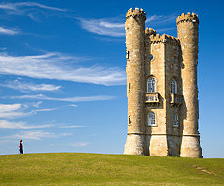
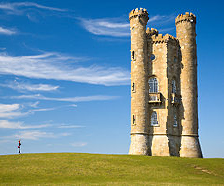
adaugare pas 3: amplificarea continutul imaginilor

diff --git a/lab4&5/cod/resize_image.py b/lab4&5/cod/resize_image.py
@@ -135,10 +135,35 @@ def decrease_height(params: Parameters, num_pixels):
     cv.destroyAllWindows()
     return img
 
+def amplify_conetnt(params: Parameters, factor):
+    # amplific continutul pastrand dimnesiunea initiala
+    # am 2 pasi
+    # 1. maresc imaginea cu un factor, prin redimensionarea obisnuita
+    # 2. tai drumurile pana revin exact la dimnesiunea originala
+    # obiectele importante din imagine raman marite pentru ca drumurile sterse trec prin zonele de energie mica, nu prin ele
+    if factor is None:
+        factor = params.factor_amplification
 
-def delete_object(params: Parameters, x0, y0, w, h):
-    #TODO: scrieti codul
-    return None
+    h, w, c = params.image.shape
+
+    # pas 1: scalarea uzuala cu factorul cerut
+    imagine_marita = cv.resize(params.image, None, fx=factor, fy=factor)
+    h_nou, w_nou = imagine_marita.shape[:2]
+
+    # pas 2: tai surplusul, mai intai pe latime si dupa pe inaltime
+    params_local = copy.copy(params)
+    params_local.image = imagine_marita
+
+    img = imagine_marita
+    img, _ = _decrease_width_img(img, w_nou - w, params_local)
+
+    img_transpus = np.transpose(img, (1, 0, 2)).copy()
+    img_transpus, _ = _decrease_width_img(img_transpus, h_nou - h, params_local)
+    img = np.transpose(img_transpus, (1, 0, 2)).copy()
+
+    cv.destroyAllWindows()
+
+    return img
 
 def resize_image(params: Parameters):
 
@@ -152,8 +177,8 @@ def resize_image(params: Parameters):
         return resized_image
     
     elif params.resize_option == 'amplificaContinut':
-        #TODO: scrieti codul
-        return None
+        resized_image = amplify_conetnt(params, params.factor_amplification)
+        return resized_image
 
     elif params.resize_option == 'eliminaObiect':
         #TODO: scrieti codul

diff --git a/lab4&5/cod/run_project.py b/lab4&5/cod/run_project.py
@@ -30,6 +30,9 @@ params.show_path = True
 # aleator, greedy, programareDinamica
 params.method_select_path = 'aleator'
 
+# factorul de amplificare al continutului
+params.factor_amplification = 1.2
+
 resized_image = resize_image(params)
 resized_image_opencv = cv.resize(params.image, (resized_image.shape[1], resized_image.shape[0]))
 
@@ -90,5 +93,14 @@ def rulez_pasi(director_date='../data/', director_iesire='./rezultate/'):
         p.resize_option = 'micsoreazaInaltime'
         p.num_pixel_height = n
         salvez('praga_inaltime_%d.png' % n, resize_image(p))
+
+    # PASUL 3!!!! --->> amplificarea continutului cu mai multi factori
+    for f in [1.05, 1.1, 1.2, 1.3]:
+        p = Parameters(os.path.join(director_date, 'arcTriumf.jpg'))
+        p.show_path = False
+        p.method_select_path = 'programareDinamica'
+        p.resize_option = 'amplificaContinut'
+        p.factor_amplification = f
+        salvez('arcTriumf_amplificat_%.2f.png' % f, resize_image(p))
 
 rulez_pasi()
